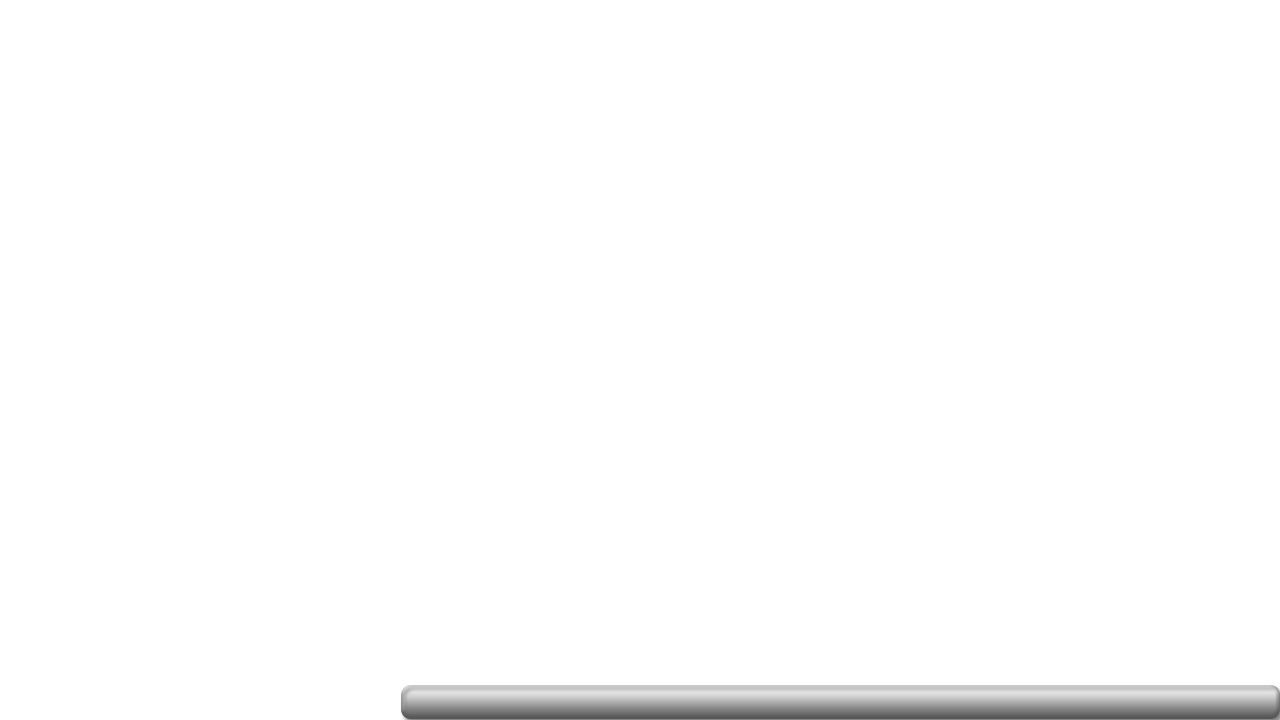
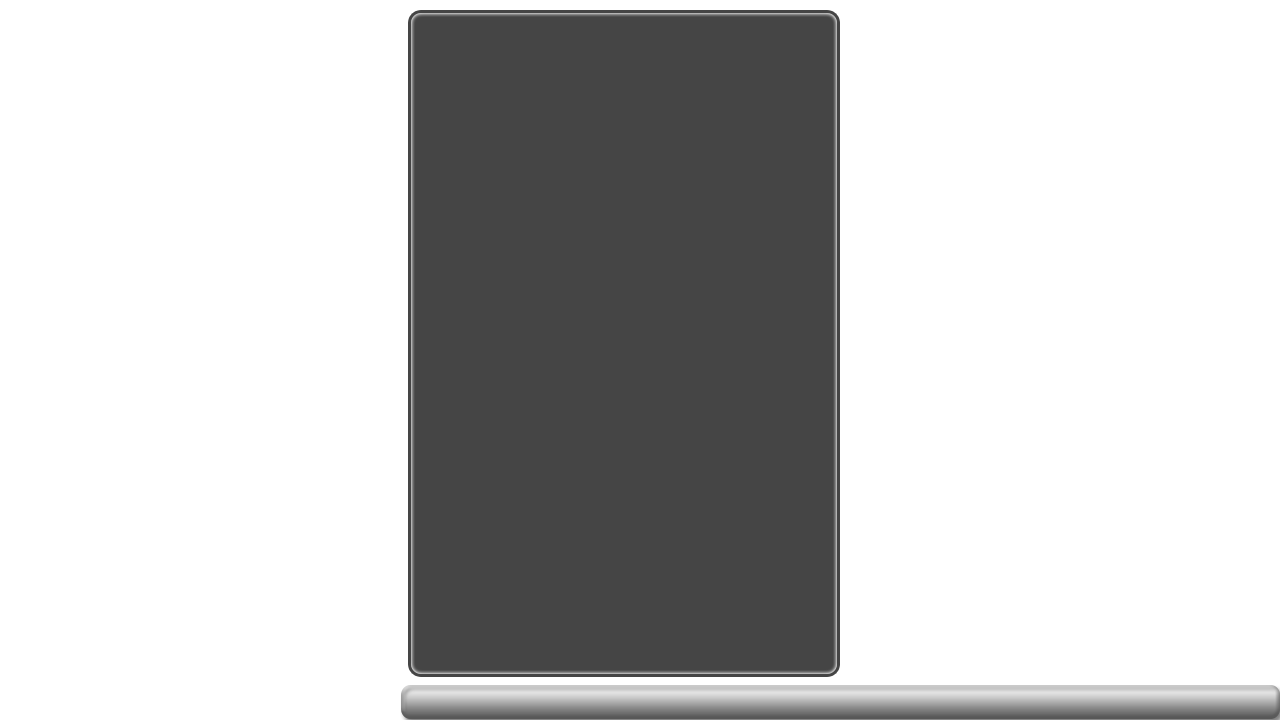
Added Rendering Msg and Chat Board

diff --git a/src/client/Scenes/GameScene.cpp b/src/client/Scenes/GameScene.cpp
@@ -1011,6 +1011,7 @@ game_global_scenes GameScene::update(const ASGE::GameTime& game_time)
 
   if (new_chat_msg)
   {
+    debug_text.print("Adding message: " + received_chat_msg + " to ALL_MSGS.");
     chat_messages.emplace_back(received_chat_msg);
     new_chat_msg = false;
   }
@@ -1232,6 +1233,17 @@ void GameScene::render()
         renderer->renderSprite(
           *ui_manager.getSprite(ui_sprites::CHAT_BOX)->getSprite());
         renderer->renderText(my_chat_msg, 420, 705, 0.5f, ASGE::COLOURS::WHITE);
+        if (!chat_messages.empty())
+        {
+          for (size_t i = 0; i < chat_messages.size(); ++i)
+          {
+            renderer->renderText(chat_messages[i],
+                                 420,
+                                 static_cast<int>((50) + (i * 20)),
+                                 0.5f,
+                                 ASGE::COLOURS::WHITE);
+          }
+        }
       }
       break;
     }
